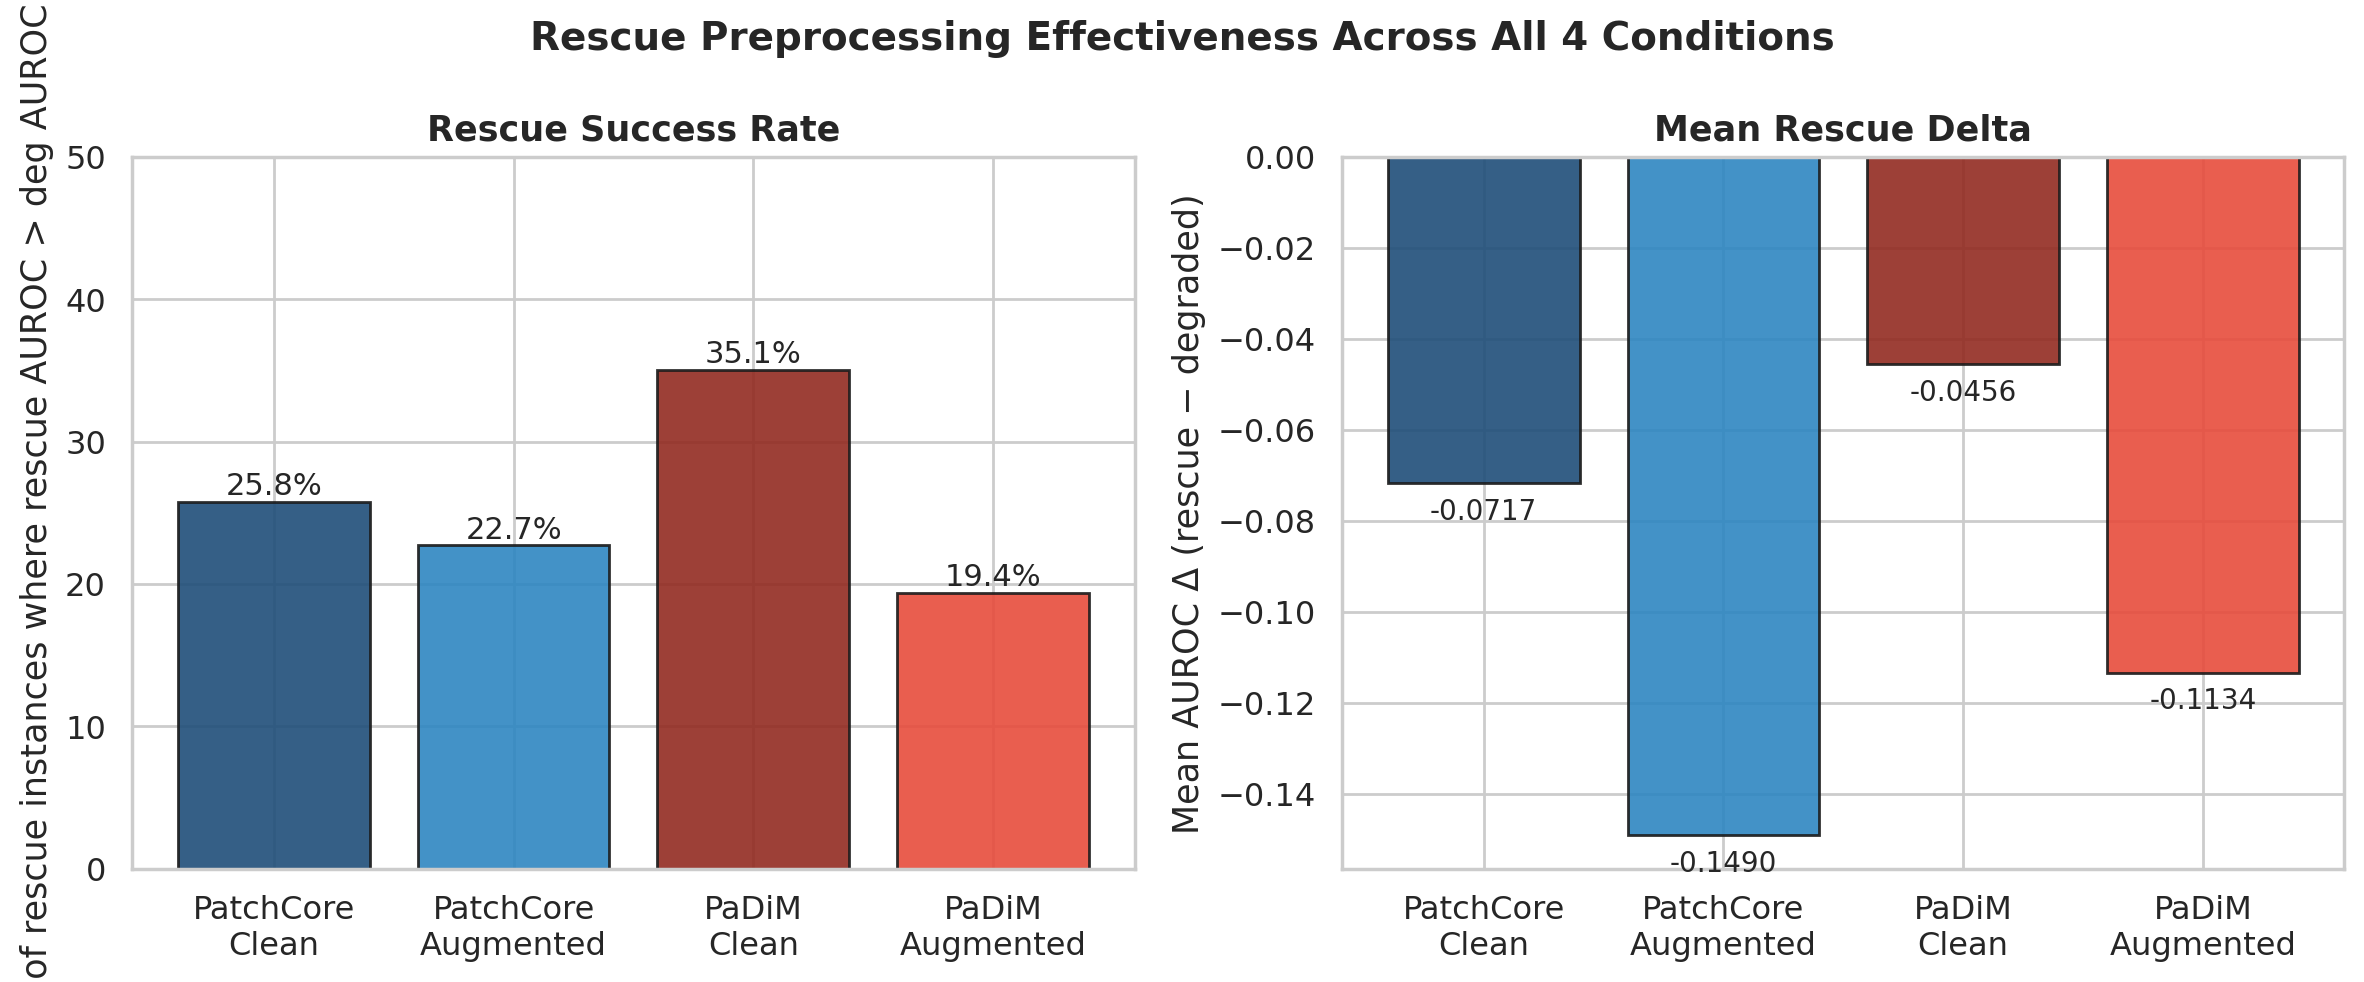
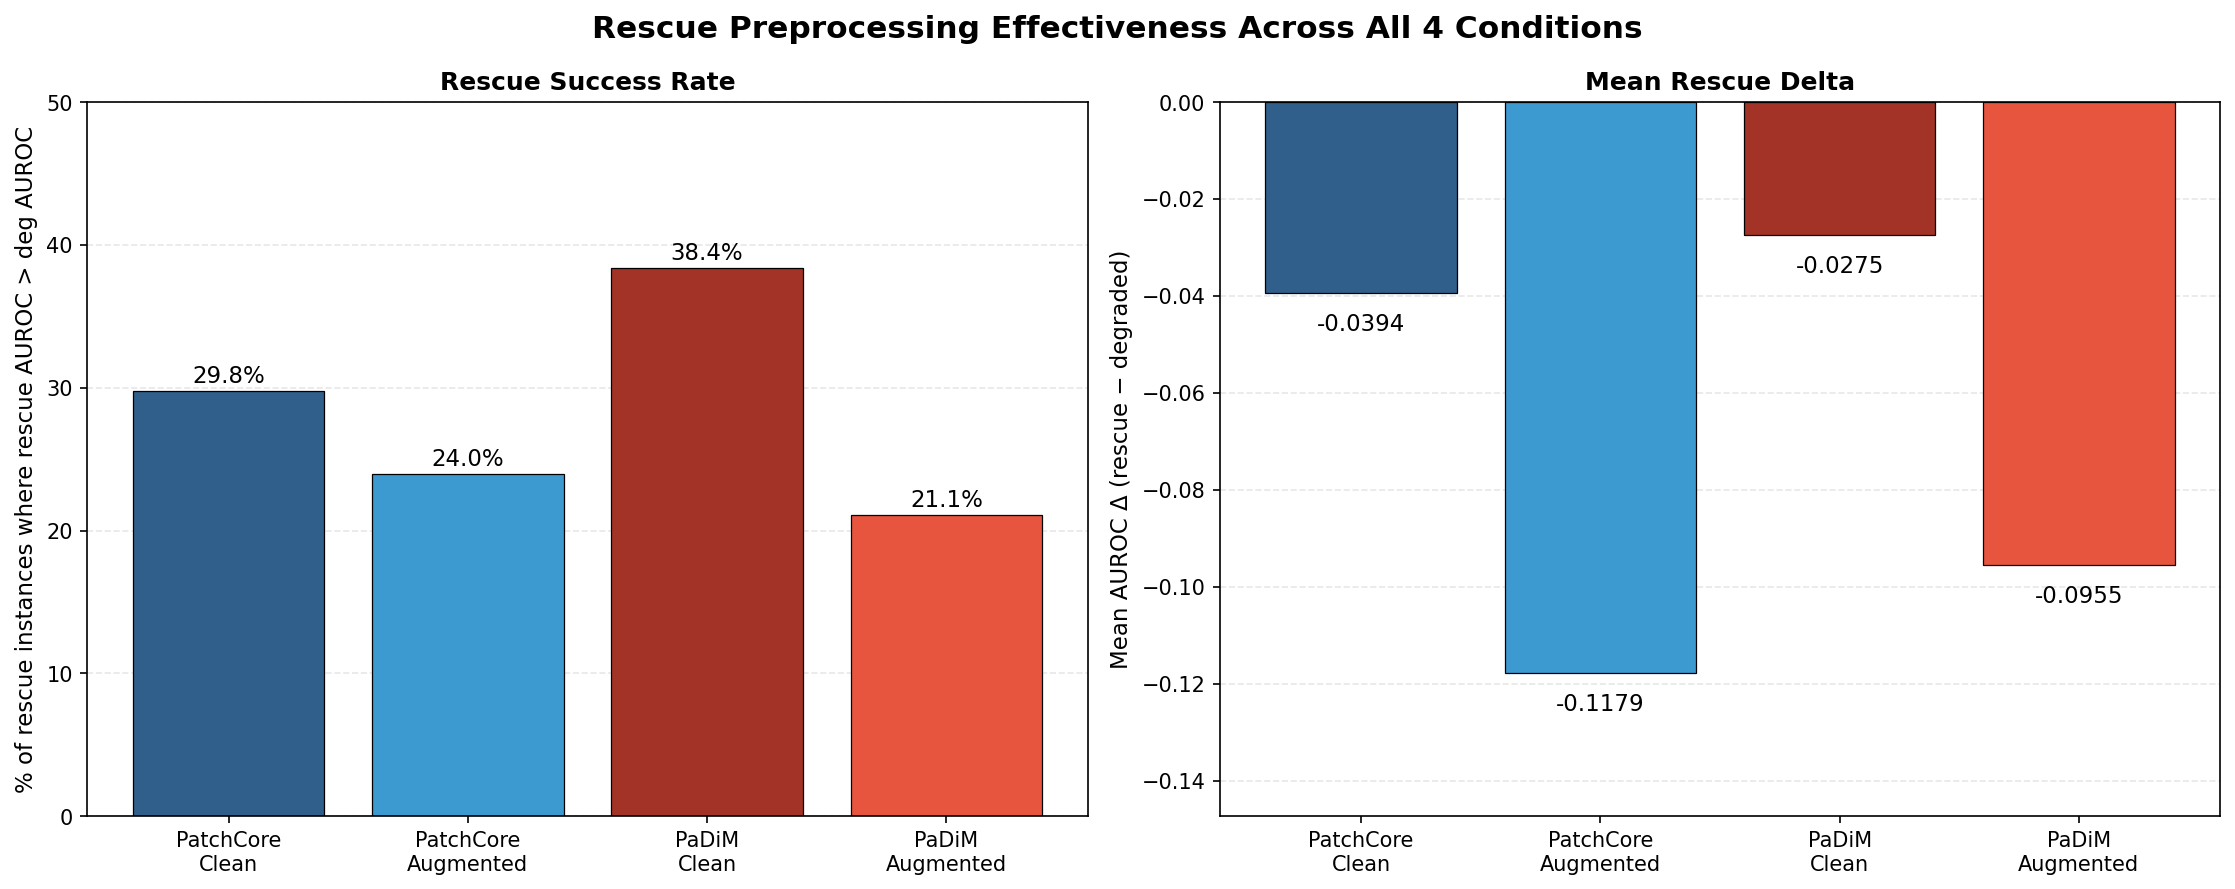
Regenerate rescue figures against the corrected benchmark
Figures 04, 05, 07, 08 and 09 all summarise rescue deltas, so all five were
stale after the corrected per-severity Wiener rows were merged.

07-09 were regenerated by executing notebooks/10_wilcoxon_testing.ipynb against
the merged CSV (in a scratch venv; the notebook needs only pandas/scipy/
statsmodels/matplotlib/seaborn, no GPU or anomalib).

04 and 05 had no generator in the repository -- the only historical one,
notebooks/10_analysis_and_figures.py, reads a long-gone set of Kaggle CSVs and
produces a different figure set. Added scripts/analysis/build_figures.py to
replace it. Scope (MVTec-AD) was confirmed by reproducing unchanged, non-Wiener
cells of the previous render exactly, e.g. PatchCore/clean/low_light/CLAHE/mild
= -0.053 in both.

New values: success rates 29.8 / 24.0 / 38.4 / 21.1%, mean deltas -0.0394 /
-0.1179 / -0.0275 / -0.0955.

Figures 01, 02, 03 and 06 are degradation-derived and unaffected by the Wiener
correction; figure 06 was checked against the merged CSV and reproduces it
exactly, so they are left as rendered.

Note that figures 07-09 report cell-level Wilcoxon p-values, which are
pseudoreplicated. docs/statistical_validation.md carries the category-clustered
inference and remains the authority.

diff --git a/scripts/analysis/build_figures.py b/scripts/analysis/build_figures.py
@@ -1,0 +1,151 @@
+#!/usr/bin/env python3
+"""Regenerate the CSV-derived rescue figures from the master benchmark CSV.
+
+Figures 04 and 05 summarise rescue deltas, so both changed when the corrected
+per-severity Wiener rows were merged. The original generator for the current
+figure set is not in the repository (the only historical one,
+notebooks/10_analysis_and_figures.py, reads a different, long-gone set of Kaggle
+CSVs), so this script replaces it for the two data-derived rescue figures.
+
+Scope is MVTec-AD, matching the published figures -- verified by reproducing
+unchanged (non-Wiener) cells of the previous renders exactly.
+
+Usage:
+    python scripts/analysis/build_figures.py [--csv PATH] [--out DIR]
+"""
+from __future__ import annotations
+
+import argparse
+from pathlib import Path
+
+import matplotlib
+matplotlib.use("Agg")
+import matplotlib.pyplot as plt
+import pandas as pd
+
+PAIR_KEY = ["dataset", "model", "category", "seed", "ctype", "severity", "training"]
+SEV_ORDER = ["mild", "moderate", "severe"]
+ROW_ORDER = [
+    ("low_light", "CLAHE"), ("low_light", "Retinex"),
+    ("gaussian_blur", "Wiener"), ("motion_blur", "Wiener (Motion PSF)"),
+    ("sensor_noise", "NLM Denoise"), ("fog_haze", "Dehaze (Dark Channel)"),
+]
+COLUMNS = [("PatchCore", "clean", "PC\nClean"), ("PatchCore", "augmented", "PC\nAug"),
+           ("PaDiM", "clean", "PD\nClean"), ("PaDiM", "augmented", "PD\nAug")]
+BAR_CONDITIONS = [("PatchCore", "clean", "PatchCore\nClean", "#2f5f8a"),
+                  ("PatchCore", "augmented", "PatchCore\nAugmented", "#3d9ad1"),
+                  ("PaDiM", "clean", "PaDiM\nClean", "#a33327"),
+                  ("PaDiM", "augmented", "PaDiM\nAugmented", "#e8553f")]
+
+plt.rcParams.update({
+    "font.family": "sans-serif",
+    "font.sans-serif": ["DejaVu Sans", "Liberation Sans", "Arial"],
+    "font.size": 10, "axes.titlesize": 12, "axes.labelsize": 11,
+    "grid.alpha": 0.3, "grid.linestyle": "--", "figure.dpi": 150,
+})
+
+
+def rescue_deltas(csv: str) -> pd.DataFrame:
+    df = pd.read_csv(csv)
+    df = df[df.dataset == "MVTec-AD"]
+    resc = df[df.phase == "rescue"]
+    deg = df[df.phase == "degradation"][PAIR_KEY + ["image_AUROC"]].rename(
+        columns={"image_AUROC": "deg"})
+    m = resc.merge(deg, on=PAIR_KEY)
+    m["delta"] = m.image_AUROC - m.deg
+    return m
+
+
+def figure_04(m: pd.DataFrame, out: Path) -> None:
+    g = m.groupby(["model", "training", "ctype", "rescue", "severity"])["delta"].mean()
+    labels, matrix = [], []
+    for ctype, rescue in ROW_ORDER:
+        for sev in SEV_ORDER:
+            labels.append(f"{ctype.replace('_', ' ')}\n{rescue}\n{sev}")
+            matrix.append([g.get((mo, tr, ctype, rescue, sev), float("nan"))
+                           for mo, tr, _ in COLUMNS])
+    data = pd.DataFrame(matrix, index=labels, columns=[c[2] for c in COLUMNS])
+
+    fig, ax = plt.subplots(figsize=(9, 16))
+    vmax = 0.1
+    vmin = min(-0.45, float(data.min().min()) - 0.01)
+    im = ax.imshow(data.values, cmap="RdYlGn", vmin=vmin, vmax=vmax, aspect="auto")
+    ax.set_xticks(range(len(data.columns)), data.columns)
+    ax.set_yticks(range(len(data.index)), data.index, fontsize=9)
+    for i in range(data.shape[0]):
+        for j in range(data.shape[1]):
+            v = data.values[i, j]
+            if pd.isna(v):
+                continue
+            # white text on the darkest cells only
+            colour = "white" if v < vmin + 0.12 else "black"
+            ax.text(j, i, f"{v:+.3f}", ha="center", va="center", color=colour, fontsize=9)
+    ax.set_title("Rescue Preprocessing Delta — All 4 Conditions\n"
+                 "(Wiener rows use per-severity oracle PSFs)",
+                 fontsize=15, fontweight="bold", pad=14)
+    cb = fig.colorbar(im, ax=ax, fraction=0.035, pad=0.03)
+    cb.set_label("AUROC Δ (rescue − degraded)", fontsize=12)
+    ax.set_xticks([x - 0.5 for x in range(1, data.shape[1])], minor=True)
+    ax.set_yticks([y - 0.5 for y in range(1, data.shape[0])], minor=True)
+    ax.grid(which="minor", color="white", linewidth=1.2)
+    ax.tick_params(which="minor", length=0)
+    fig.savefig(out / "04_rescue_delta_heatmap.png", bbox_inches="tight")
+    plt.close(fig)
+    print("wrote 04_rescue_delta_heatmap.png")
+
+
+def figure_05(m: pd.DataFrame, out: Path) -> None:
+    rates, means, names, colours = [], [], [], []
+    for model, training, label, colour in BAR_CONDITIONS:
+        g = m[(m.model == model) & (m.training == training)]
+        rates.append((g.delta > 0).mean() * 100)
+        means.append(g.delta.mean())
+        names.append(label)
+        colours.append(colour)
+
+    fig, axes = plt.subplots(1, 2, figsize=(15, 6))
+    ax = axes[0]
+    bars = ax.bar(names, rates, color=colours, edgecolor="black", linewidth=0.6)
+    for b, v in zip(bars, rates):
+        ax.text(b.get_x() + b.get_width() / 2, v + 0.6, f"{v:.1f}%", ha="center", fontsize=11)
+    ax.set_ylim(0, 50)
+    ax.set_ylabel("% of rescue instances where rescue AUROC > deg AUROC")
+    ax.set_title("Rescue Success Rate", fontweight="bold")
+    ax.grid(axis="y")
+    ax.set_axisbelow(True)
+
+    ax = axes[1]
+    bars = ax.bar(names, means, color=colours, edgecolor="black", linewidth=0.6)
+    for b, v in zip(bars, means):
+        ax.text(b.get_x() + b.get_width() / 2, v - 0.004, f"{v:.4f}", ha="center",
+                va="top", fontsize=11)
+    ax.set_ylabel("Mean AUROC Δ (rescue − degraded)")
+    ax.set_title("Mean Rescue Delta", fontweight="bold")
+    ax.grid(axis="y")
+    ax.set_axisbelow(True)
+    ax.set_ylim(min(means) * 1.25, 0)
+
+    fig.suptitle("Rescue Preprocessing Effectiveness Across All 4 Conditions",
+                 fontsize=15, fontweight="bold")
+    fig.tight_layout()
+    fig.savefig(out / "05_rescue_success_rates.png", bbox_inches="tight")
+    plt.close(fig)
+    print("wrote 05_rescue_success_rates.png")
+    for n, r, v in zip(names, rates, means):
+        print(f"   {n.replace(chr(10), ' '):22s} rate={r:5.1f}%  mean={v:+.4f}")
+
+
+def main() -> None:
+    ap = argparse.ArgumentParser(description=__doc__)
+    ap.add_argument("--csv", default="data/benchmark_master_combined.csv")
+    ap.add_argument("--out", default="results/analysis")
+    args = ap.parse_args()
+    out = Path(args.out)
+    out.mkdir(parents=True, exist_ok=True)
+    m = rescue_deltas(args.csv)
+    figure_04(m, out)
+    figure_05(m, out)
+
+
+if __name__ == "__main__":
+    main()
